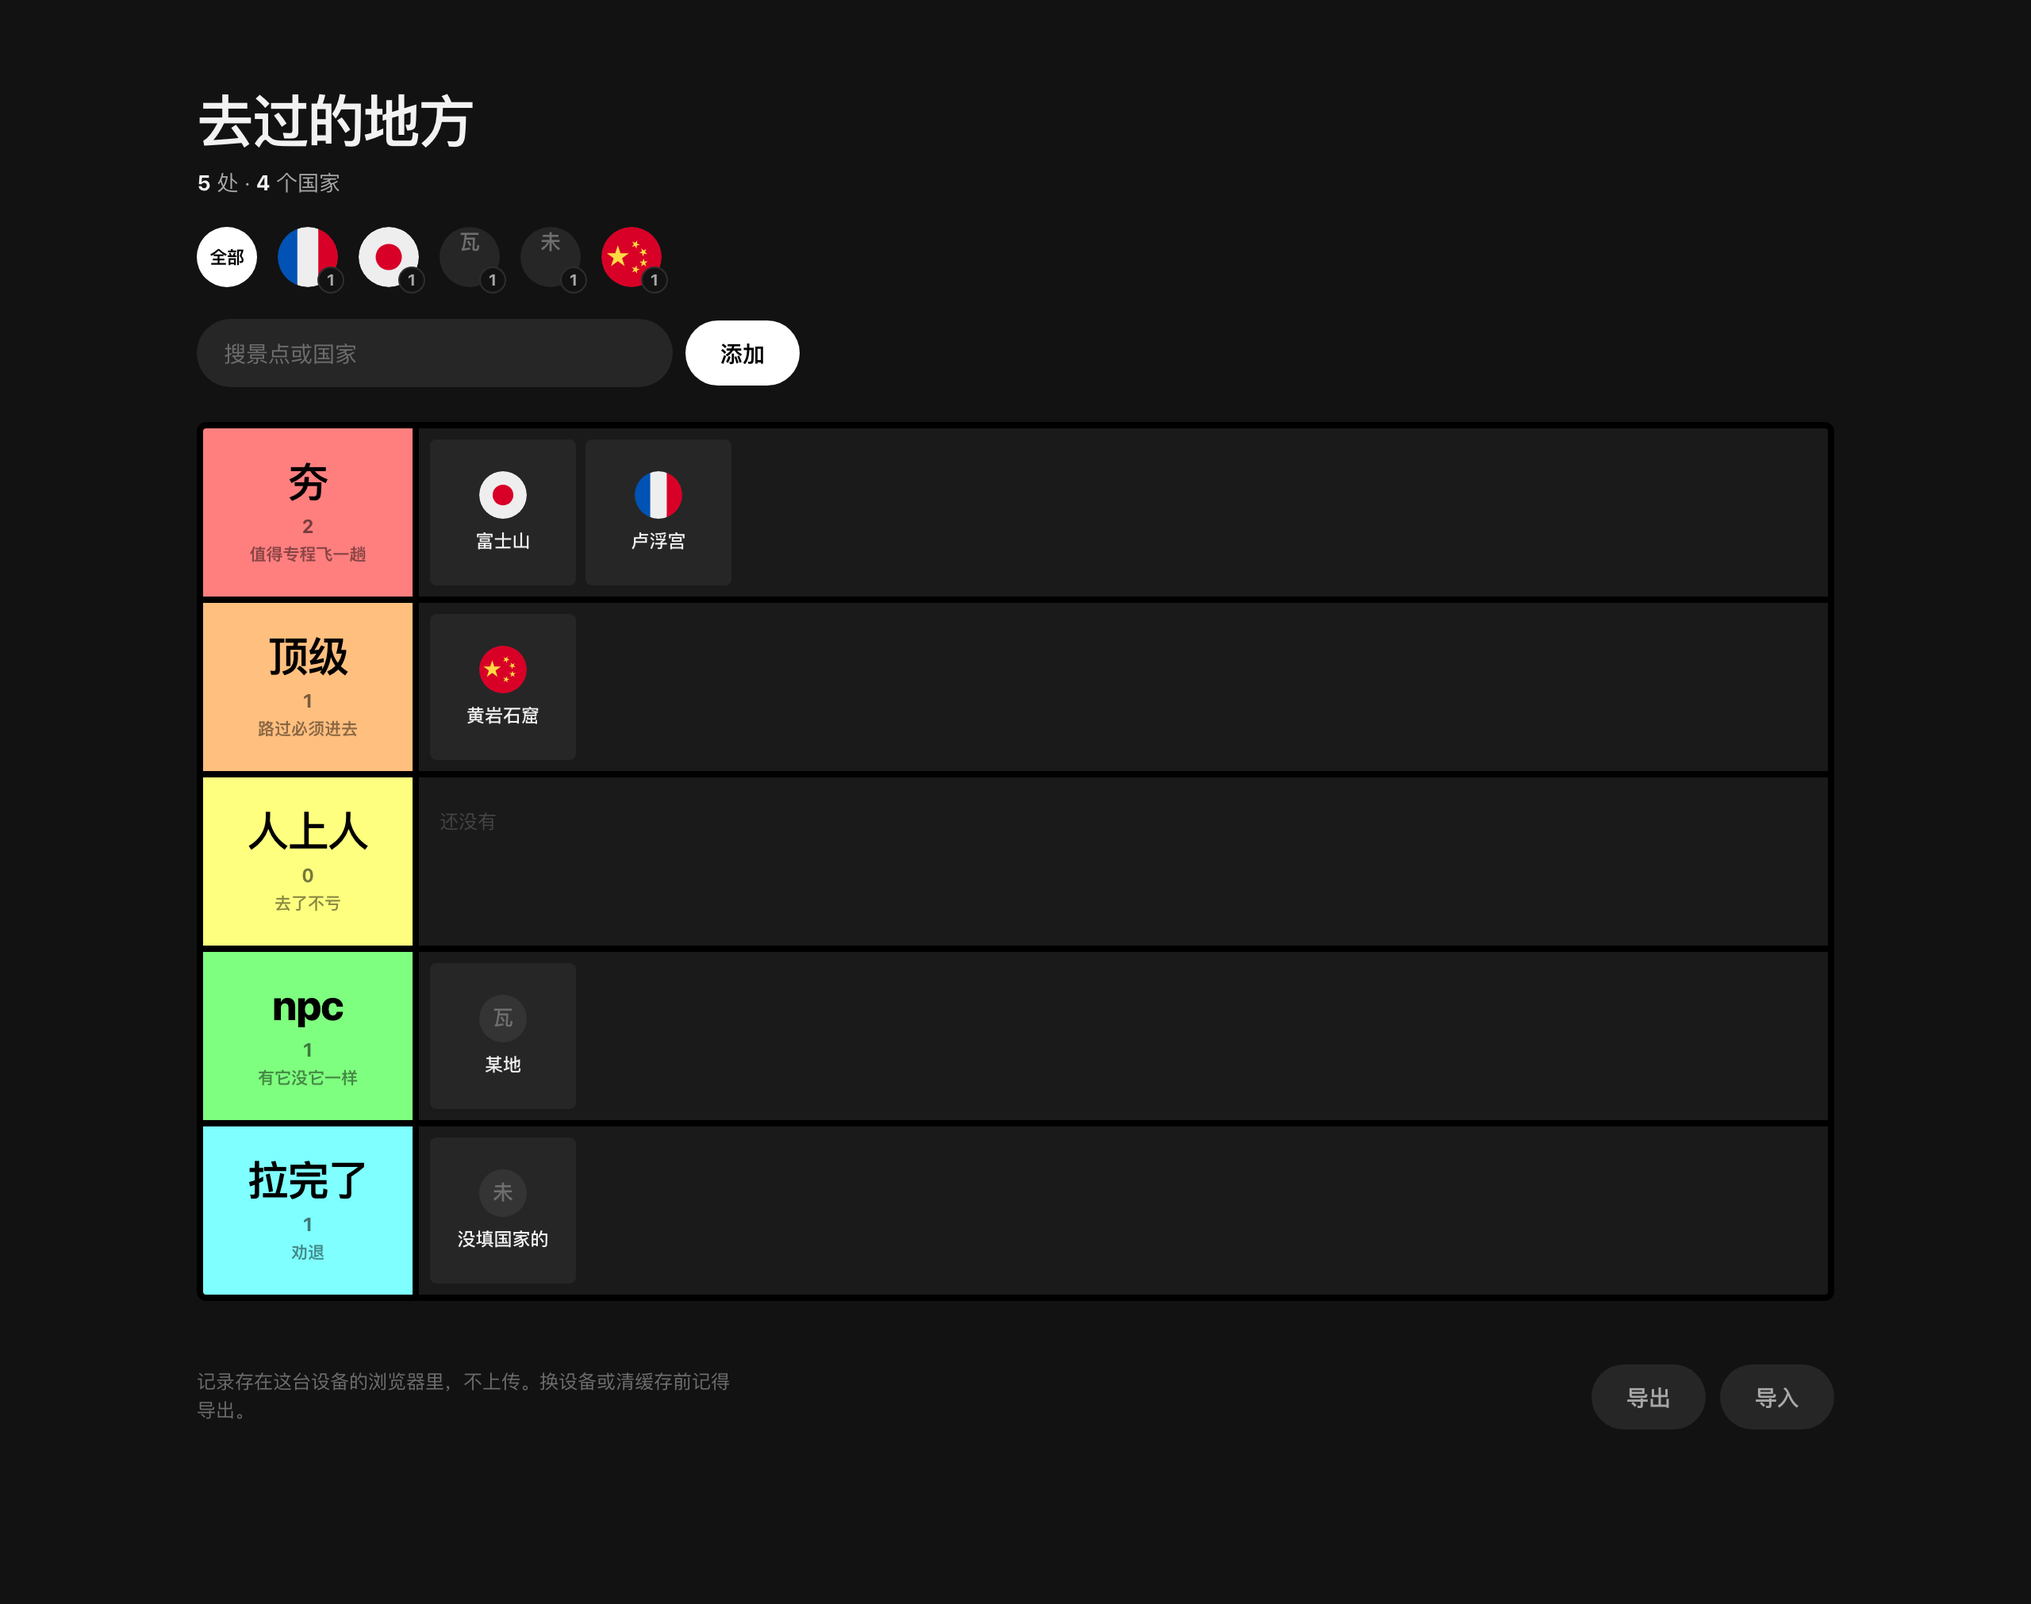
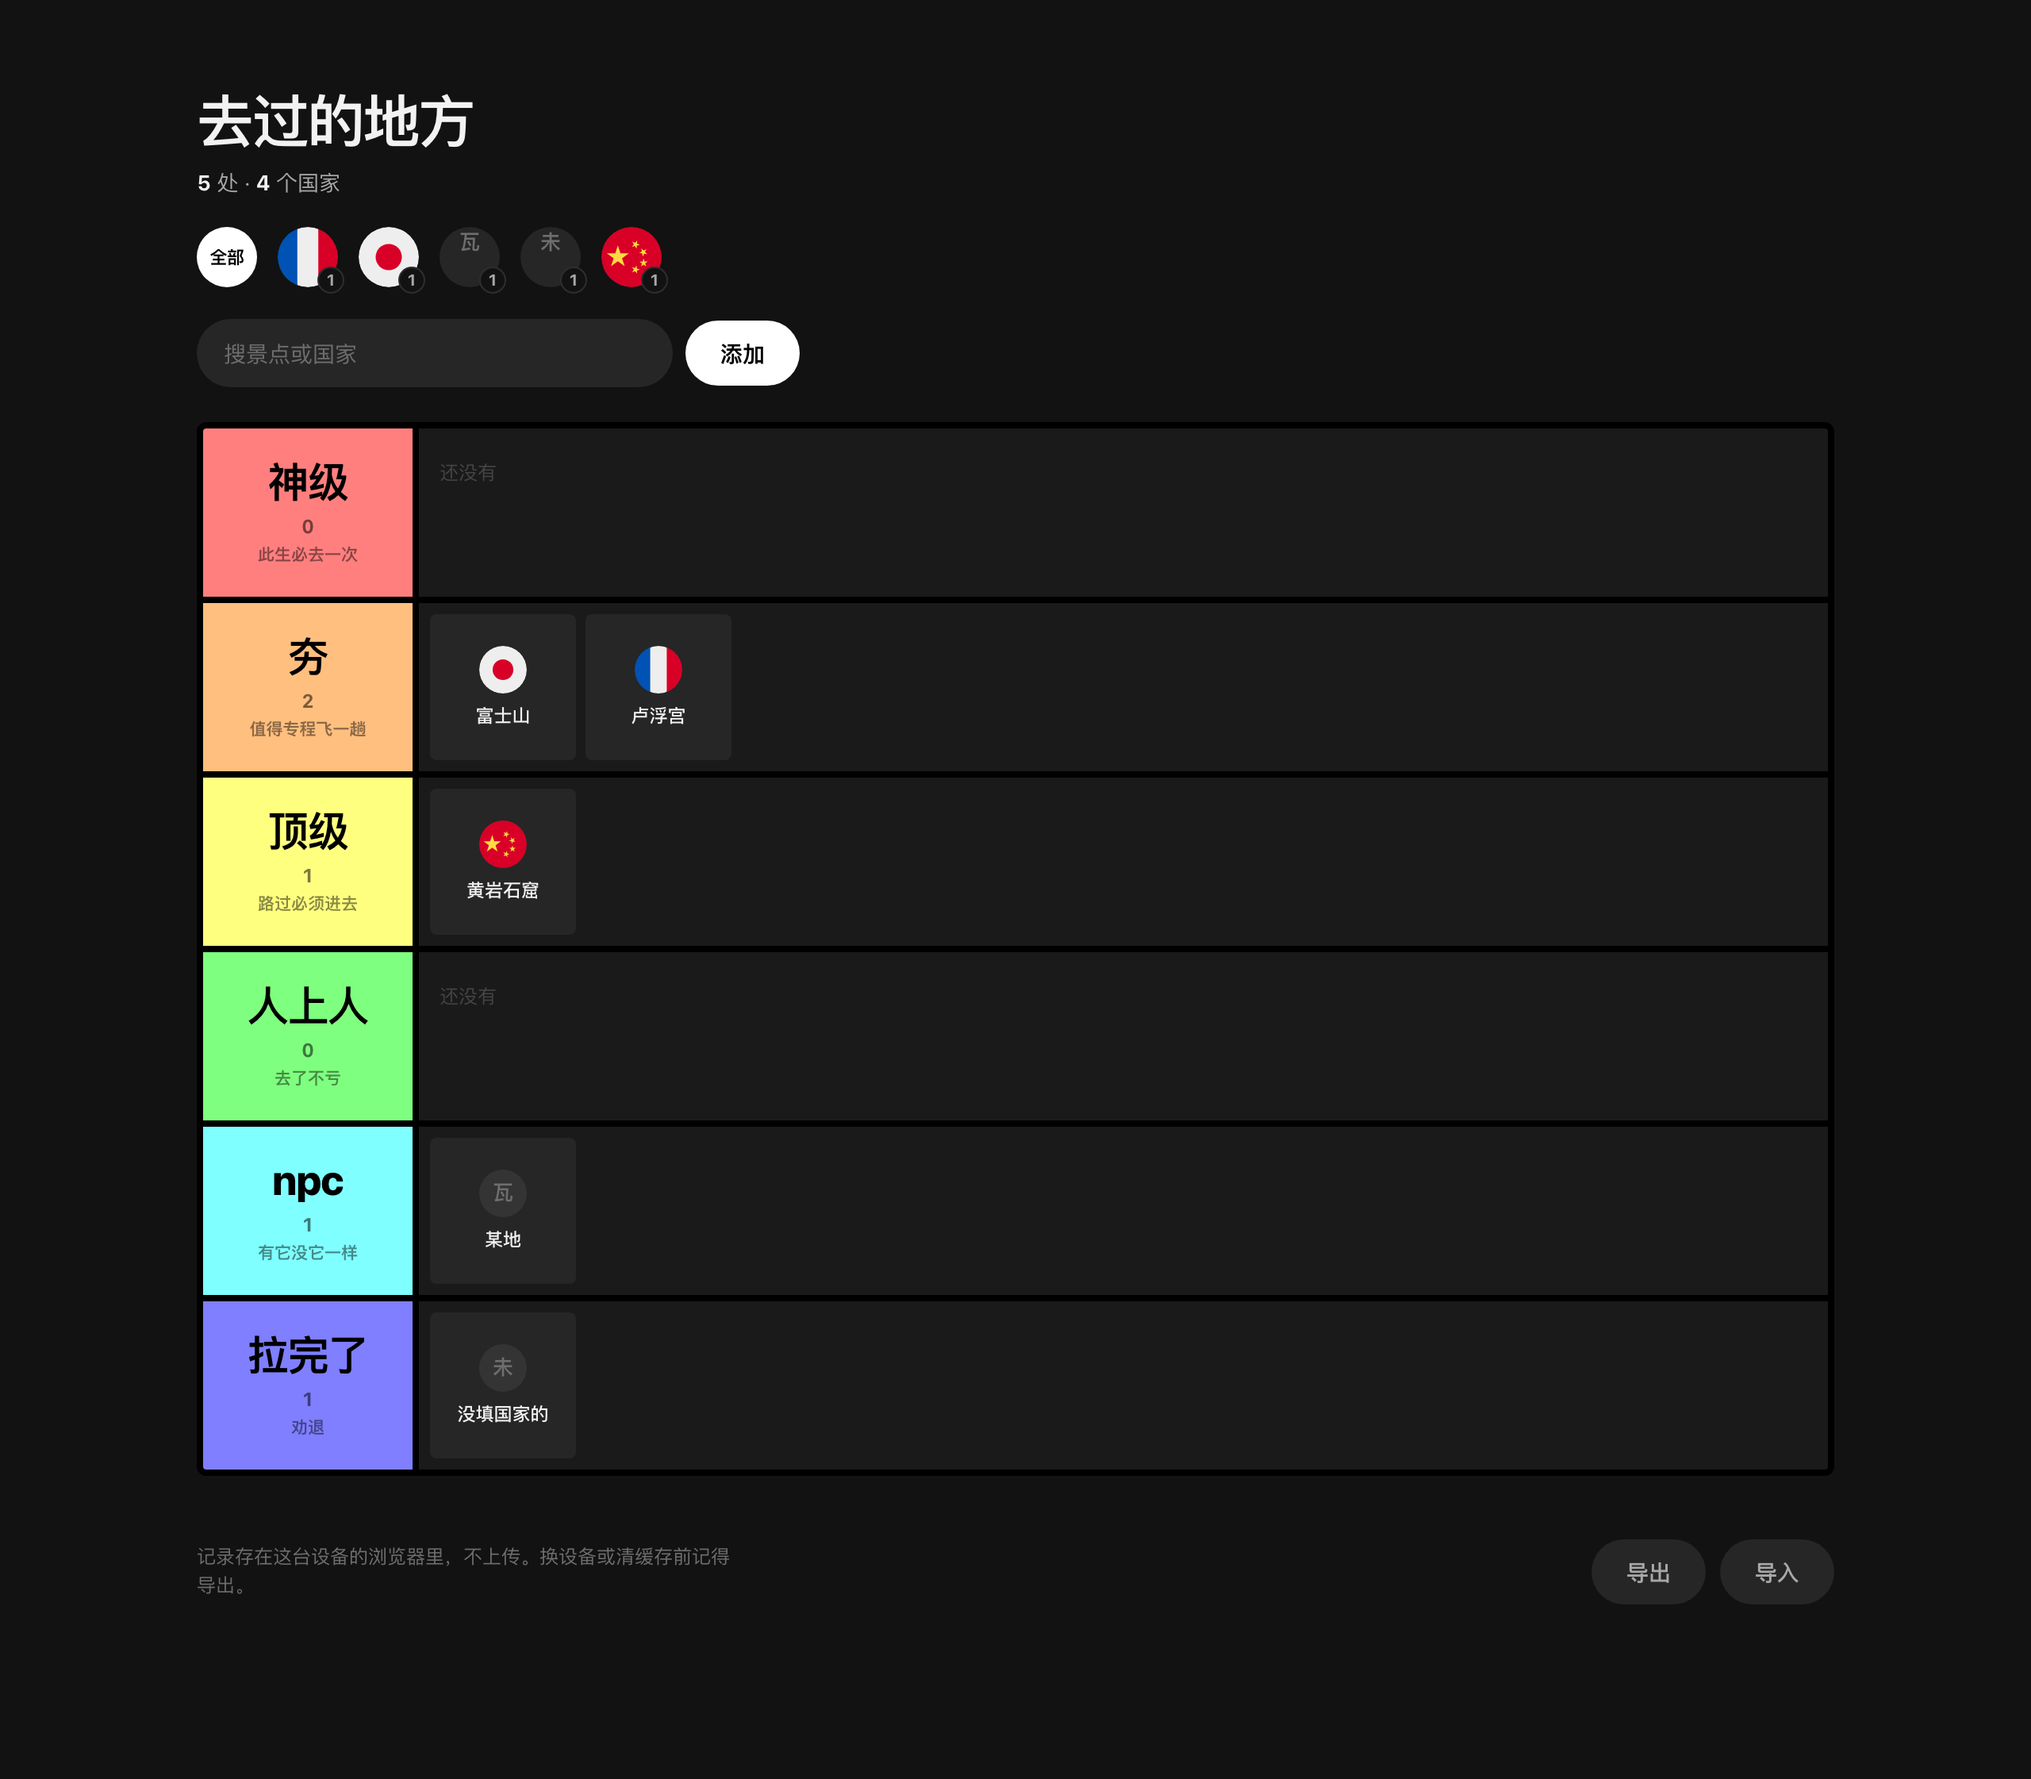
新增「神级」档，位列最上
六档：神级 > 夯 > 顶级 > 人上人 > npc > 拉完了。

- 色阶整体下移一格，仍走 TierMaker 官方连续色带：
  #FF7F7F 红 → #FFBF7F 橙 → #FFFF7F 黄 → #7FFF7F 绿 → #7FFFFF 青 → #7F7FFF 蓝
- 六档黑字对比度最低 6.38:1（拉完了那档的蓝），全部达标
- 评级选择器改 6 列，弹窗加宽到 420px，一行仍塞得下
- 新增时的默认档位改成按 key 取（原来按下标 i===1，加一档就会错位）

旧数据不受影响，档位 key 未变。

测试加到 42 项全过，新增：六档顺序与色带逐一比对、选择器不换行、
默认选中仍是顶级、能把景点评为神级且落在最上面那档。

录入模板同步改成六档，并改为直接从 index.html 读取档位定义，
避免模板与线上不一致。

Changed region(s): [[0.0938, 0.0312, 0.9062, 0.9036], [0.25, 0.8412, 0.3438, 0.9036]]

diff --git a/index.html b/index.html
@@ -23,12 +23,13 @@
     --ink-3:#6E6E6E;
     --line:#2E2E2E;
 
-    /* TierMaker 标准档位色，配黑字，五档对比度都在 8:1 以上 */
+    /* TierMaker 标准档位色，配黑字，六档对比度都在 5:1 以上 */
     --t1:#FF7F7F;
     --t2:#FFBF7F;
     --t3:#FFFF7F;
     --t4:#7FFF7F;
     --t5:#7FFFFF;
+    --t6:#7F7FFF;
 
     --sans:-apple-system,BlinkMacSystemFont,"PingFang SC","Hiragino Sans GB",
            "Microsoft YaHei",system-ui,"Segoe UI",sans-serif;
@@ -121,7 +122,7 @@
 
   /* ---------- 弹窗 ---------- */
   dialog{border:1px solid var(--line);border-radius:12px;background:#1E1E1E;color:var(--ink);
-         padding:0;width:min(380px,92vw);box-shadow:0 30px 60px -20px rgba(0,0,0,.9)}
+         padding:0;width:min(420px,92vw);box-shadow:0 30px 60px -20px rgba(0,0,0,.9)}
   dialog::backdrop{background:rgba(0,0,0,.66)}
   .dlg-head{display:flex;align-items:center;gap:10px;padding:18px 20px 0}
   .dlg-head .flag{width:26px;height:26px;border-radius:50%}
@@ -131,11 +132,11 @@
   .field label{font-size:12px;color:var(--ink-2);font-weight:600}
   .field input{width:100%;border-radius:8px;background:#141414;border:1px solid var(--line)}
 
-  .picker{display:grid;grid-template-columns:repeat(5,1fr);gap:5px}
+  .picker{display:grid;grid-template-columns:repeat(6,1fr);gap:4px}
   .picker span{position:relative;display:block}
   .picker input{position:absolute;opacity:0;width:0;height:0}
   .picker label{
-    display:block;text-align:center;font-size:12px;line-height:1.3;cursor:pointer;padding:9px 2px;
+    display:block;text-align:center;font-size:11.5px;line-height:1.3;cursor:pointer;padding:9px 1px;
     border-radius:7px;color:#000;background:var(--c);opacity:.34;font-weight:700;
     user-select:none;transition:opacity .12s;
   }
@@ -216,11 +217,12 @@
 
   /* 五档。颜色沿用 TierMaker 标准色，标签一律黑字。 */
   var TIERS = [
-    { key:"hang", name:"夯",     blurb:"值得专程飞一趟", c:"var(--t1)" },
-    { key:"top",  name:"顶级",   blurb:"路过必须进去",   c:"var(--t2)" },
-    { key:"ren",  name:"人上人", blurb:"去了不亏",       c:"var(--t3)" },
-    { key:"npc",  name:"npc",    blurb:"有它没它一样",   c:"var(--t4)" },
-    { key:"la",   name:"拉完了", blurb:"劝退",           c:"var(--t5)" }
+    { key:"shen", name:"神级",   blurb:"此生必去一次",   c:"var(--t1)" },
+    { key:"hang", name:"夯",     blurb:"值得专程飞一趟", c:"var(--t2)" },
+    { key:"top",  name:"顶级",   blurb:"路过必须进去",   c:"var(--t3)" },
+    { key:"ren",  name:"人上人", blurb:"去了不亏",       c:"var(--t4)" },
+    { key:"npc",  name:"npc",    blurb:"有它没它一样",   c:"var(--t5)" },
+    { key:"la",   name:"拉完了", blurb:"劝退",           c:"var(--t6)" }
   ];
 
   /* 国家名 → ISO 两位码，用来取圆形国旗。认不出来的退回首字占位圆。 */
@@ -406,9 +408,10 @@
   var killBtn  = document.getElementById("kill");
   var dlgFlag  = document.getElementById("dlg-flag");
 
-  document.getElementById("picker").innerHTML = TIERS.map(function(t,i){
+  document.getElementById("picker").innerHTML = TIERS.map(function(t){
     return '<span style="--c:' + t.c + '">' +
-      '<input type="radio" name="tier" id="p-' + t.key + '" value="' + t.key + '"' + (i===1?" checked":"") + '>' +
+      '<input type="radio" name="tier" id="p-' + t.key + '" value="' + t.key + '"' +
+        (t.key==="top" ? " checked" : "") + '>' +
       '<label for="p-' + t.key + '">' + esc(t.name) + '</label>' +
     '</span>';
   }).join("");

diff --git a/README.md b/README.md
@@ -1,6 +1,6 @@
 # 去过的地方
 
-我去过的景点，五档分级：**夯 → 顶级 → 人上人 → npc → 拉完了**。
+我去过的景点，六档分级：**神级 → 夯 → 顶级 → 人上人 → npc → 拉完了**。
 
 👉 https://froxieye.github.io/scenic-tiers/
 
@@ -18,12 +18,12 @@
 
 | 位置 | 取值 |
 | --- | --- |
-| 夯 / 顶级 / 人上人 / npc / 拉完了 | `#FF7F7F` `#FFBF7F` `#FFFF7F` `#7FFF7F` `#7FFFFF` |
+| 神级 / 夯 / 顶级 / 人上人 / npc / 拉完了 | `#FF7F7F` `#FFBF7F` `#FFFF7F` `#7FFF7F` `#7FFFFF` `#7F7FFF` |
 | 条目区底色 | `#1A1A1A` |
 | 行缝 | `#000000` |
 | 主按钮（封面右下那枚白胶囊） | `#FFFFFF` 底配黑色粗字 |
 
-左侧彩色标签块一律黑字，五档对比度 8.6:1 起。条目是 92×92 的方块，照模板的样子左对齐铺排。
+左侧彩色标签块一律黑字，六档对比度 6.4:1 起。条目是 92×92 的方块，照模板的样子左对齐铺排。
 
 ## 国旗
 
@@ -51,7 +51,7 @@
 换设备或清缓存前记得导出 JSON。
 
 存档是一个数组，每项四个键：`id` `name` `country` `tier`。
-`tier` 取 `hang` / `top` / `ren` / `npc` / `la`。
+`tier` 取 `shen` / `hang` / `top` / `ren` / `npc` / `la`。
 
 旧版有过 `place`/`where`（地点）、`date`/`when`（时间）、`note`/`said`（一句话），
 现已全部取消，读进来即丢弃。旧记录没有国家字段，凡是有过地点的一律按「中国」处理。
